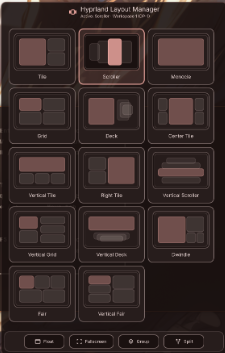
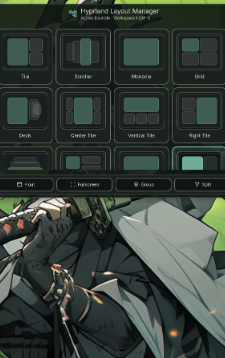
docs(assets): update desktop preview with clean screenshot and remove bar pill

diff --git a/README.md b/README.md
@@ -28,12 +28,7 @@ A visual layout switcher, cycle rotator, and window management plugin for **Hypr
 
 ## 📸 Interface Showcase
 
-### 1. DankBar Widget Pill
-Shows your current layout icon and code dynamically. Hovering and scrolling allows seamless layout cycling across active workspaces.
-
-![Bar Widget](assets/bar-pill.png)
-
-### 2. Layout Selector Popout
+### Layout Selector Popout
 Displays interactive preview cards for each layout mode. The active layout is highlighted with the current DMS accent color.
 
 ![Layout Popout](assets/layout-popout.png)
